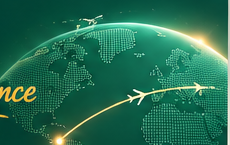
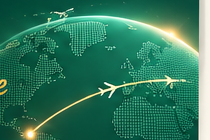
fix(app): recadre le globe, remet la bascule dans la carte blanche
Le globe était coupé (crop trop haut dans l'image source) et la
bascule Envoyer/Recevoir, placée dans l'en-tête, l'avait rendu trop
haut (la bascule a gonflé la hauteur de l'en-tête, décalant le globe
vers le bandeau d'état). La bascule revient à sa place dans la carte
blanche (comme dans la maquette), avec de vraies icônes (avion/boîte)
au lieu d'emoji enveloppe. Nouveau recadrage du globe + fondu radial
pour mieux se fondre dans le vert de l'en-tête.

Claude-Session: https://claude.ai/code/session_01XzekoF9KoyCi9jcw9SmFA4

diff --git a/index.html b/index.html
@@ -68,7 +68,7 @@
   .bn-item .bn-badge{position:absolute;top:0;right:12px;background:var(--red);color:#fff;font-size:9.5px;font-weight:700;min-width:15px;height:15px;border-radius:999px;display:flex;align-items:center;justify-content:center;padding:0 3px;}
 
   header{padding:calc(26px + env(safe-area-inset-top)) 20px 18px;text-align:center;position:relative;overflow:hidden;background:linear-gradient(180deg,var(--green) 0%,var(--green-dark) 100%);}
-  header .hero-globe{position:absolute;top:38px;right:0;width:62%;max-width:280px;height:auto;pointer-events:none;-webkit-mask-image:linear-gradient(to right, transparent, #000 22%);mask-image:linear-gradient(to right, transparent, #000 22%);}
+  header .hero-globe{position:absolute;top:58px;right:-10px;width:58%;max-width:250px;height:auto;pointer-events:none;-webkit-mask-image:radial-gradient(circle at 78% 42%, #000 48%, transparent 82%);mask-image:radial-gradient(circle at 78% 42%, #000 48%, transparent 82%);}
   header .brand{position:relative;color:#F5EFDD;}
   header .brand .star{width:32px;height:32px;margin:0 auto 6px;}
   header h1{font-size:26px;color:#F5EFDD;letter-spacing:.5px;}
@@ -206,9 +206,10 @@
   .bell-btn{position:absolute;top:calc(22px + env(safe-area-inset-top));right:20px;width:38px;height:38px;border-radius:10px;border:none;background:rgba(255,255,255,.14);display:flex;align-items:center;justify-content:center;cursor:pointer;z-index:5;color:#F5EFDD;}
   .bell-btn .icon{width:19px;height:19px;}
   .bell-btn .notif-badge{position:absolute;top:-6px;right:-6px;background:var(--red);color:#fff;font-size:10px;font-weight:700;min-width:16px;height:16px;border-radius:999px;display:flex;align-items:center;justify-content:center;padding:0 3px;}
-  .home-mode{display:flex;gap:6px;margin-top:16px;position:relative;z-index:2;}
-  .home-mode button{flex:1;border:none;border-radius:999px;padding:10px 8px;font-weight:700;font-size:13.5px;cursor:pointer;font-family:'Inter',sans-serif;background:rgba(255,255,255,.14);color:#F5EFDD;}
-  .home-mode button.active{background:#F5EFDD;color:var(--green-dark);}
+  .home-mode{display:flex;gap:8px;margin-bottom:18px;}
+  .home-mode button{flex:1;border:1.5px solid var(--line);border-radius:999px;padding:11px 8px;font-weight:700;font-size:14px;cursor:pointer;font-family:'Inter',sans-serif;background:var(--panel);color:var(--ink-soft);display:flex;align-items:center;justify-content:center;gap:7px;}
+  .home-mode button .icon{width:16px;height:16px;}
+  .home-mode button.active{background:var(--green);border-color:var(--green);color:#fff;}
 
   .field-label{display:flex;align-items:center;gap:6px;}
   .field-label .icon{width:15px;height:15px;color:var(--ink-soft);}
@@ -326,10 +327,6 @@
     <h1>Baraka GP</h1>
     <p>Vos colis, partout en confiance</p>
     <div class="points-bar" onclick="switchTab('points')" id="pointsBarHeader" style="display:none;">🌟 <b id="pointsHeaderVal">0</b> points Baraka</div>
-    <div class="home-mode" id="homeModeToggle">
-      <button type="button" class="active" id="homeModeSend" onclick="setHomeMode('send')">📤 Envoyer</button>
-      <button type="button" id="homeModeReceive" onclick="setHomeMode('receive')">📥 Recevoir</button>
-    </div>
   </div>
 </header>
 
@@ -375,6 +372,10 @@
   <!-- SEARCH (page d'accueil) -->
   <div id="viewSearch">
     <div class="panel">
+      <div class="home-mode" id="homeModeToggle">
+        <button type="button" class="active" id="homeModeSend" onclick="setHomeMode('send')"><svg class="icon" viewBox="0 0 24 24"><path d="m22 2-7 20-4-9-9-4Z"/><path d="M22 2 11 13"/></svg> Envoyer</button>
+        <button type="button" id="homeModeReceive" onclick="setHomeMode('receive')"><svg class="icon" viewBox="0 0 24 24"><path d="M21 8a2 2 0 0 0-1-1.73l-7-4a2 2 0 0 0-2 0l-7 4A2 2 0 0 0 3 8v8a2 2 0 0 0 1 1.73l7 4a2 2 0 0 0 2 0l7-4a2 2 0 0 0 1-1.73Z"/><path d="M3.3 7 12 12l8.7-5"/><path d="M12 22V12"/></svg> Recevoir</button>
+      </div>
       <div class="row2">
         <div><label class="field-label"><svg class="icon" viewBox="0 0 24 24"><circle cx="12" cy="10" r="3"/><path d="M12 21c-4-4.5-7-8-7-11a7 7 0 0 1 14 0c0 3-3 6.5-7 11Z"/></svg><span data-i18n="labelFrom">Ville de départ</span></label><input type="text" id="searchFrom" list="fromCities" oninput="renderResults()" placeholder="Paris"></div>
         <div><label class="field-label"><svg class="icon" viewBox="0 0 24 24"><path d="M5 3v18"/><path d="M5 4h11l-2 4 2 4H5"/></svg><span data-i18n="labelTo">Ville d'arrivée</span></label><input type="text" id="searchTo" list="toCities" oninput="autoSetCountry('searchTo','searchCountry');renderResults();" placeholder="Nouakchott"></div>
@@ -2004,8 +2005,6 @@ function switchTab(tab){
   ['Search','Send','Publish','Mytrips','Mydemandes','Orders','Points','Balance','Messages'].forEach(v=>{
     document.getElementById('view'+v).style.display = ('view'+v==='view'+tab.charAt(0).toUpperCase()+tab.slice(1)) ? 'block':'none';
   });
-  const homeModeToggle=document.getElementById('homeModeToggle');
-  if(homeModeToggle) homeModeToggle.style.display = tab==='search' ? 'flex' : 'none';
   stopPolling();
   if(tab==='search'){ renderResults(); startPolling(); }
   if(tab==='send' && me){ document.getElementById('sName').value=me.name; document.getElementById('sPhone').value=me.phone; }
